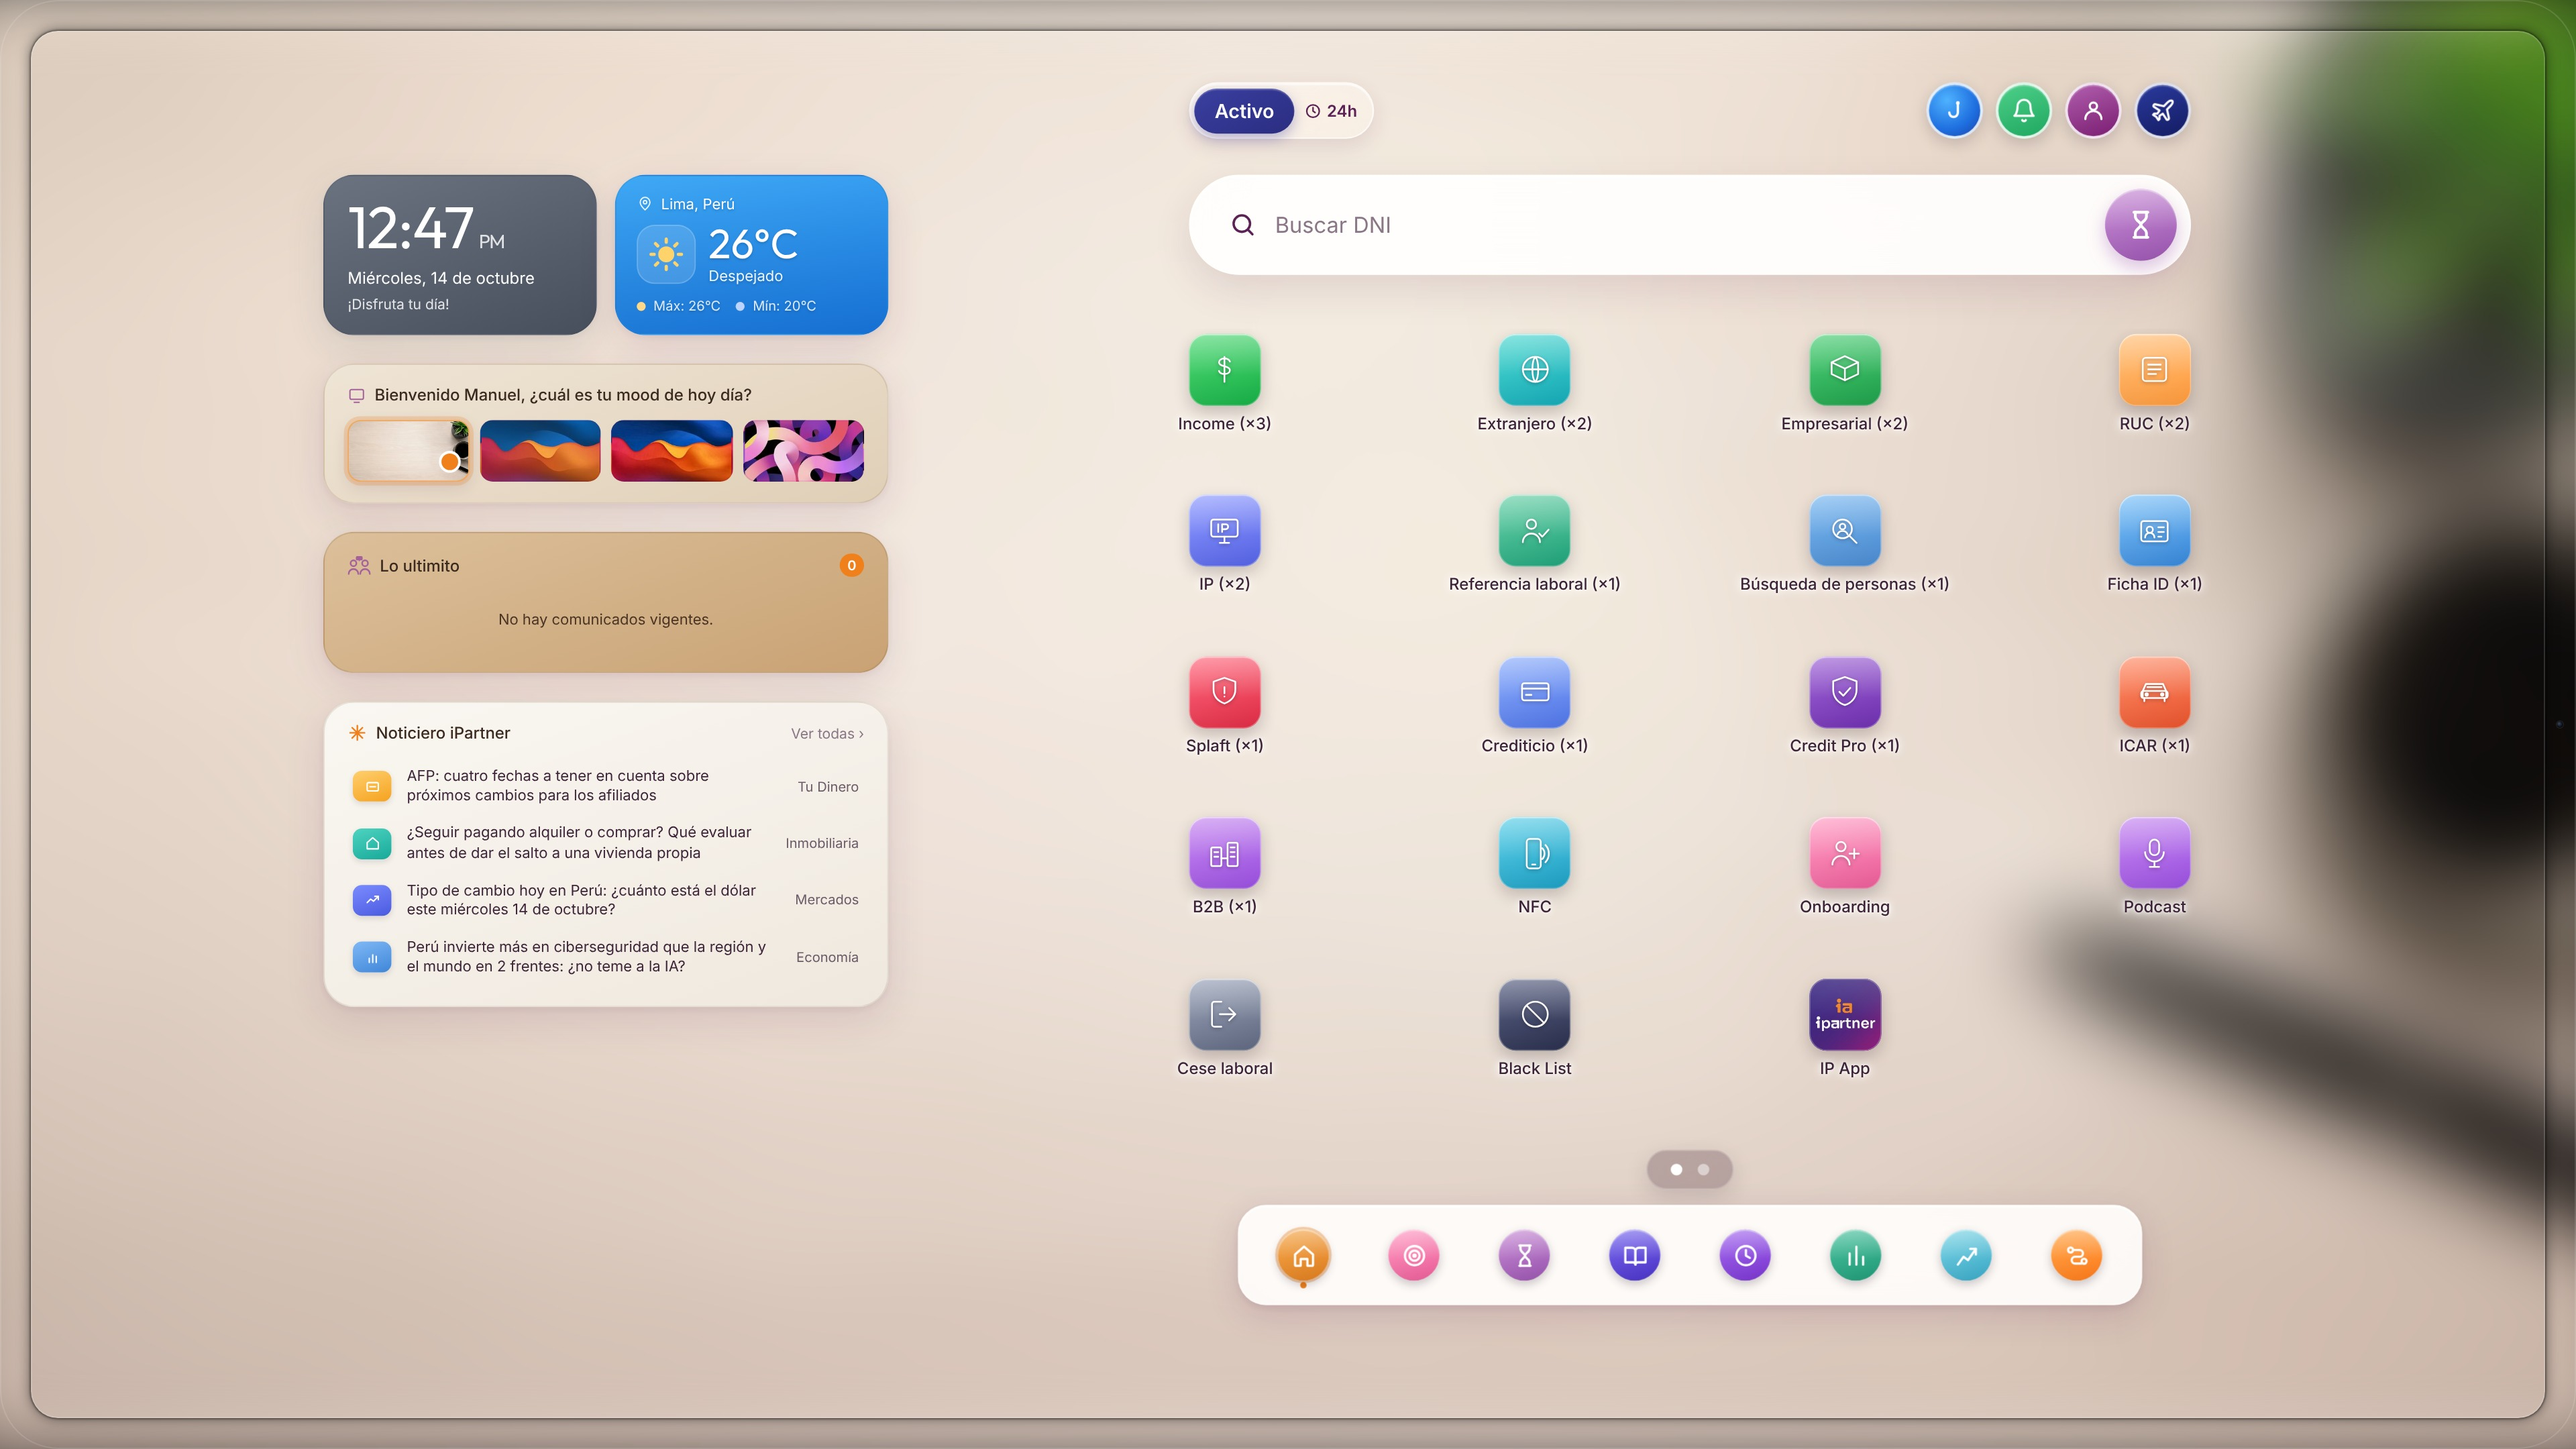
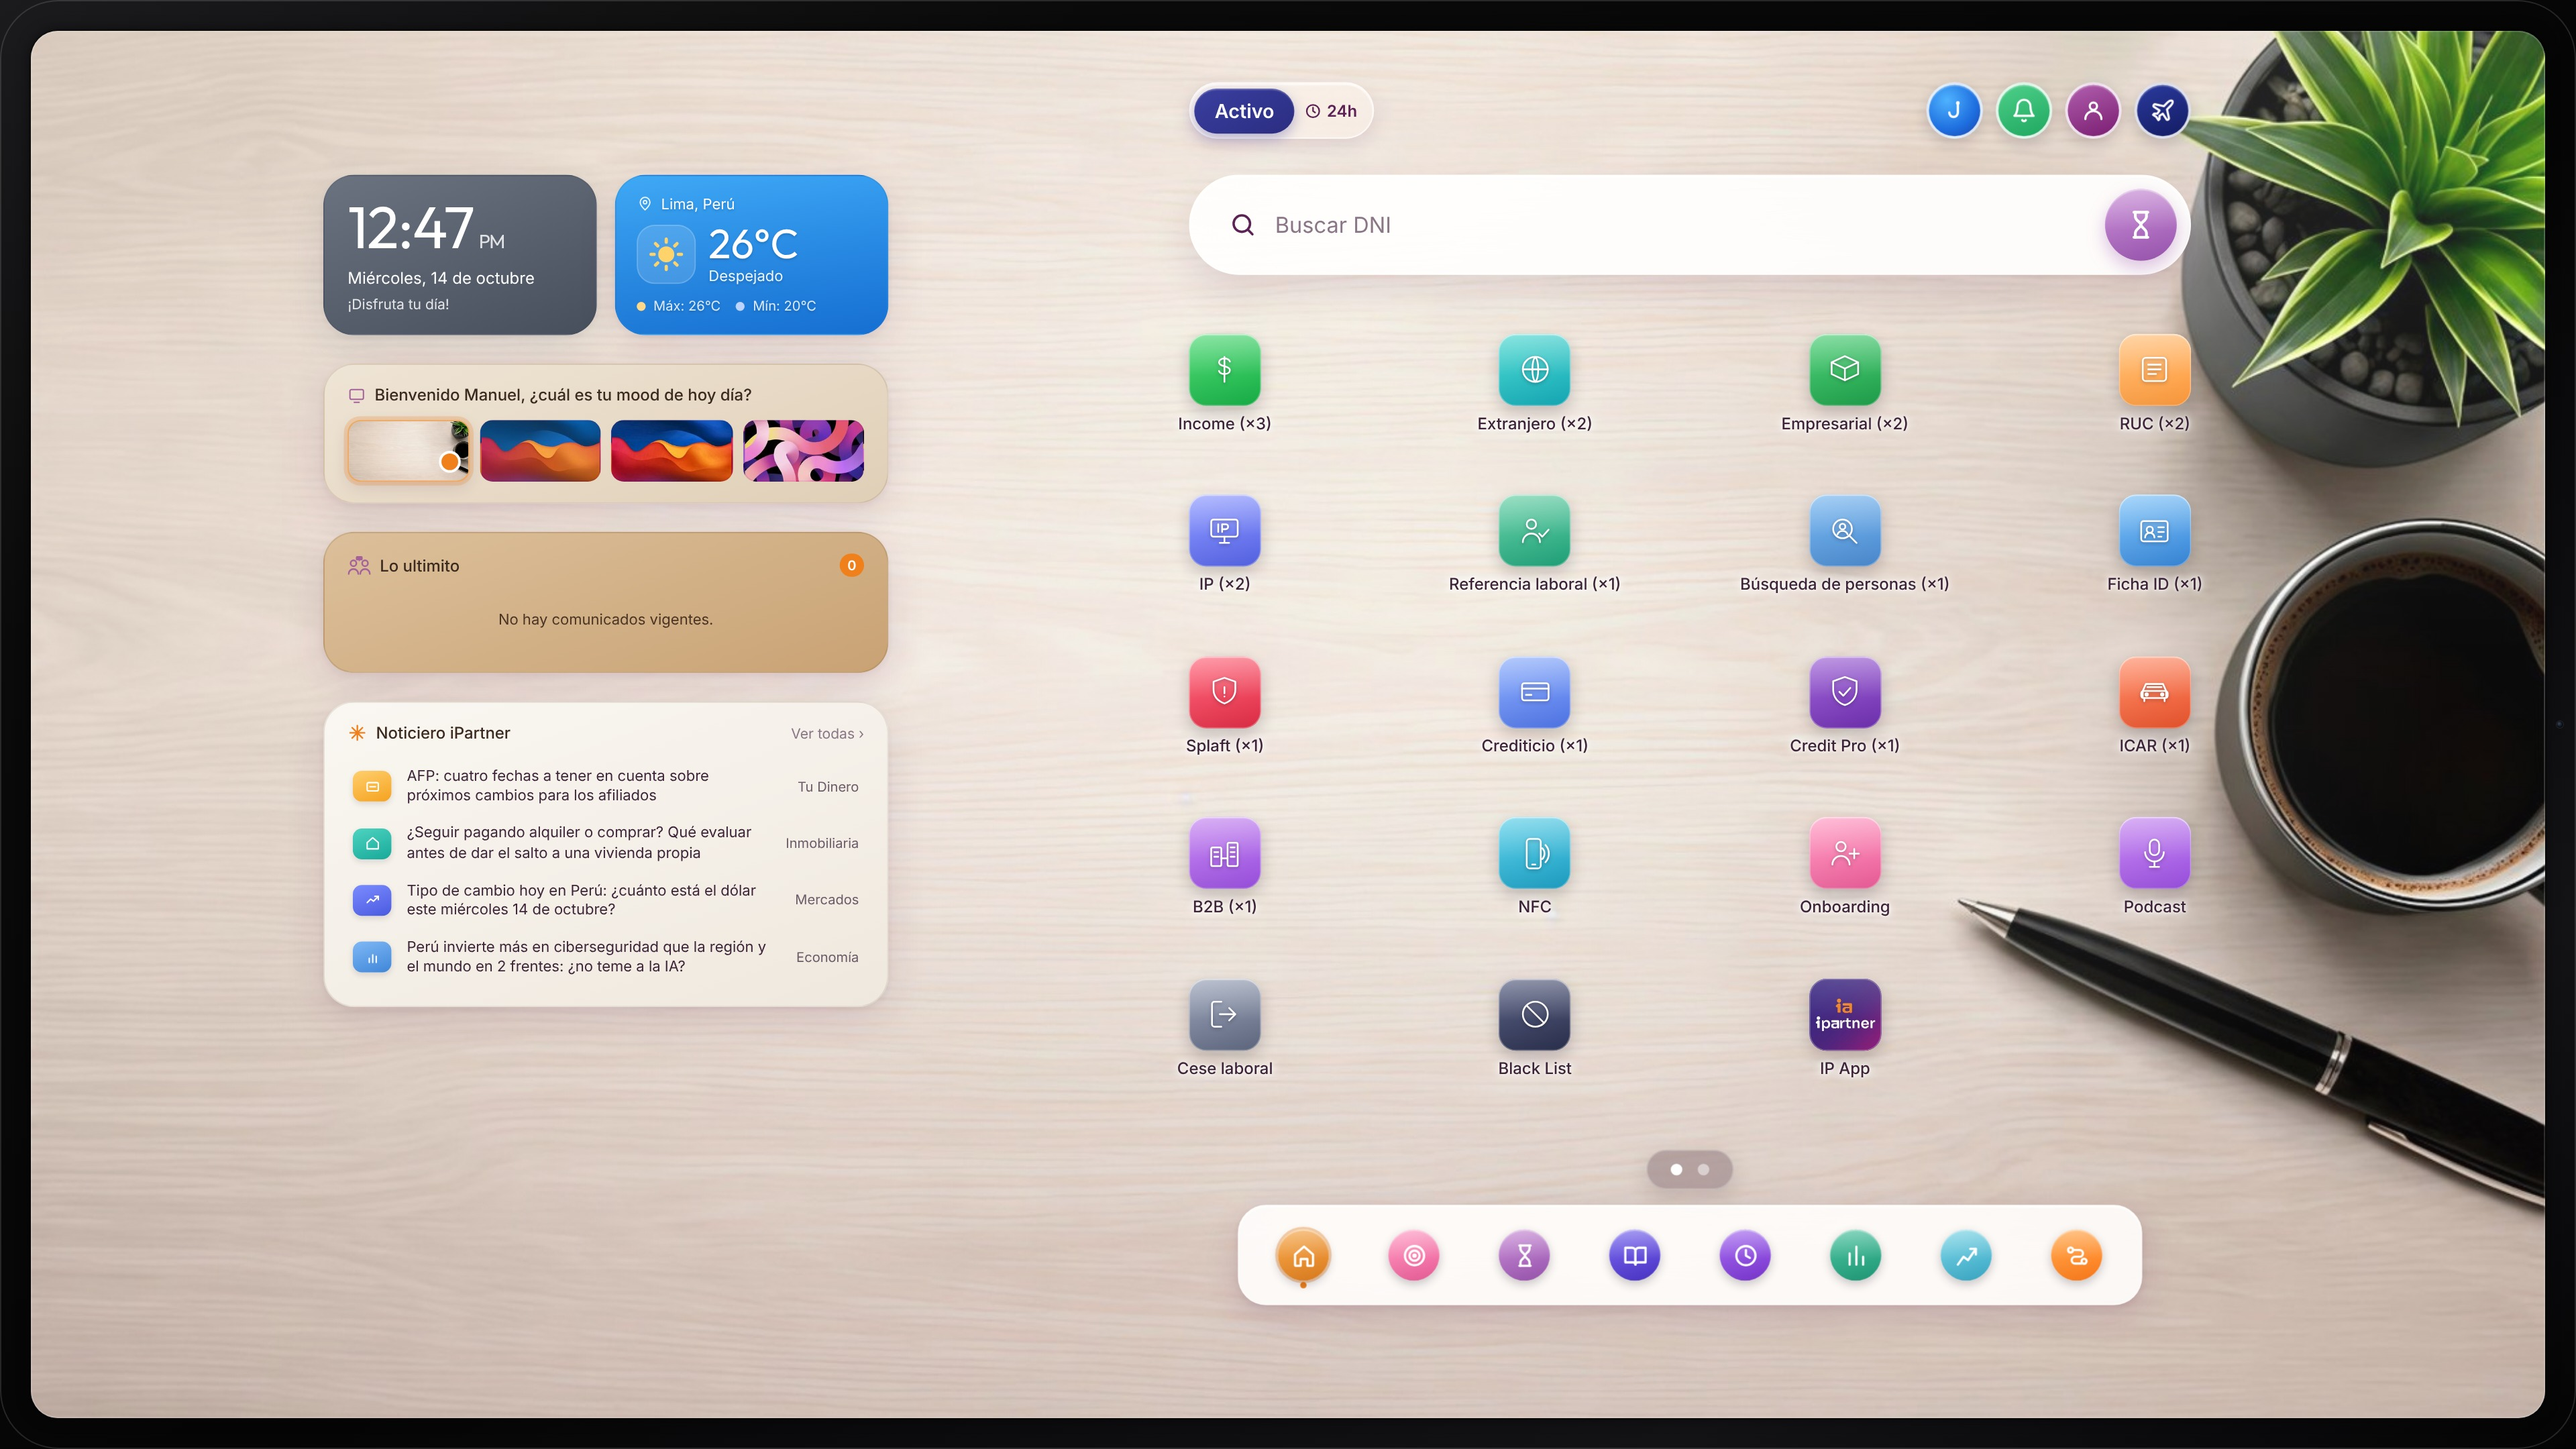
Home: propuesta de espacios iguales con el fondo original sin desenfoque
Claude-Session: https://claude.ai/code/session_01KT8NTYu2Ge9wagQ7cc8Njn

Changed region(s): [[0.0, 0.0, 1.0, 1.0]]

diff --git a/home/propuestas/ipartner-home-espacios-iguales.html b/home/propuestas/ipartner-home-espacios-iguales.html
@@ -1122,8 +1122,6 @@ header .sesion{grid-column:2;justify-self:center!important;width:780px;justify-c
 .card.clima.c-despejado,.card.clima.c-soleado,.card.clima.c-parcial,.card.clima.c-amanecer{background:linear-gradient(170deg,#3fa9f5,#1877e0)!important}
 /* Columna central centrada: mismo espacio a cada lado */
 .zona,header .sesion,nav{position:relative;left:-16px}
-/* FONDO 1 · Foto desenfocada (estilo iPad) */
-body[data-tema="degradado"] .stage{filter:blur(28px) saturate(115%);transform:scale(1.08)}
 /* Tres espacios iguales: borde → panel → columna → borde */
 .panel{position:relative;left:169px}
 .zona,header .sesion,nav{left:69px!important}
